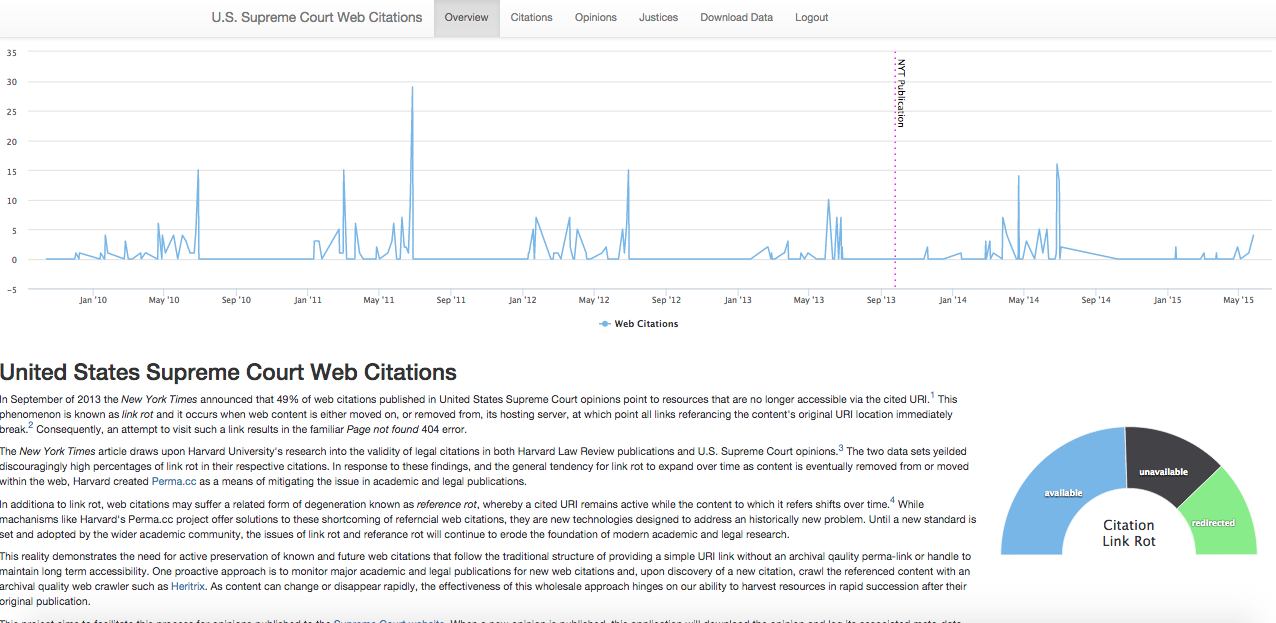
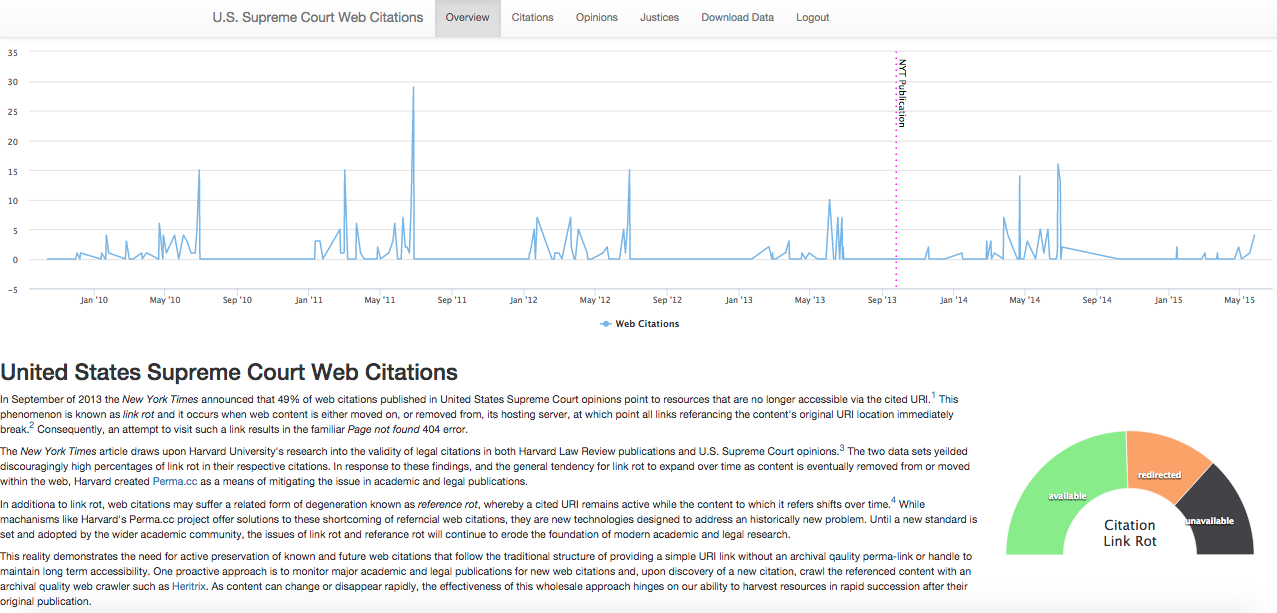
Removed the robustlink support for now because it did not fit in well with the look at feel of the citations page, and because the same functionality is already in place via others methods in the page.  Also, our memento approach is more informative, in my opinion, as it send to user off to the list

diff --git a/citations/templates/citations-robust.html b/citations/templates/citations-robust.html
@@ -1,0 +1,107 @@
+{% extends "base.html" %}
+
+{% block javascript %}
+<script src="/static/js/robustlinks.js"></script>
+{% endblock %}
+
+{% block css %}
+<link href="/static/css/robustlinks.css" media="all" rel="stylesheet">
+{% endblock %}
+
+{% block content %}
+    <table class="table table-striped">
+      <thead>
+        <tr>
+          <th>Verified</th>
+          <th>Citation</th>
+          <th>Opinion</th>
+          <!--provide memento links is JS disabled, blocking robustlinks-->
+          <noscript>
+            <th>Memento</th>
+          </noscript>
+        </tr>
+      </thead>
+      <tbody>
+        {% for citation in citations %}
+          <tr>
+            <td>
+              <a class='anchor' name='{{ citation.id }}'></a>
+              {% if citation.verify_date %} 
+                {% if citation.perma %}
+                  <a target="_blank" href="{{ citation.perma }}?type=source" title="view application capture">
+                    <span class="label label-info label-as-badge">
+                      {{ citation.verify_date|date:"Y.m.d" }}
+                    </span>
+                  </a>
+                {% else %}
+                  <span class="label label-default label-as-badge">
+                    {{ citation.verify_date|date:"Y.m.d" }}
+                  </span>
+                {% endif %}
+              {% else %}
+                <a class="btn btn-primary" href="/citations/verify/{{ citation.id  }}" title="verify citation" role="button">Verify</a>
+              {% endif %}
+            </td>
+
+            <td>
+              {% if citation.status == 'u' %}
+                <span class="label label-default label-as-badge" title="unavailable">{{ citation.status }}</span>
+                {% if citation.validated %}
+                  <a target="_blank" href="{{ citation.validated }}"
+                  data-versiondate="{{ citation.opinion.published|date:"Y-m-d" }}"
+                  {% if citation.perma %}data-versionurl="{{ citation.perma }}?type=source"{% endif %}>
+                      {{ citation.validated }}
+                  </a>   
+                {% else %}
+                  <a target="_blank" href="{{ citation.scraped }}"
+                  data-versiondate="{{ citation.opinion.published|date:"Y-m-d" }}"
+                  {% if citation.perma %}data-versionurl="{{ citation.perma }}?type=source"{% endif %}>
+                      {{ citation.scraped }}
+                  </a>   
+                {% endif %}
+                  <a target="_blank" data-versiondate="{{ citation.opinion.published|date:"Y-m-d" }}"
+                  {% if citation.perma %}data-versionurl="{{ citation.perma }}?type=source"{% endif %}>
+                      {{ citation.validated }}
+                  </a>   
+              {% else %}
+                {% if citation.status == 'r' %}
+                  <span class="label label-warning label-as-badge" title="redirect">{{ citation.status }}</span>
+                {% else %}
+                  <span class="label label-success label-as-badge" title="available">{{ citation.status }}</span>
+                {% endif %}
+                  {% if citation.validated %}
+                    <a target="_blank" href="{{ citation.validated }}" title="visit live citation page"
+                    data-versiondate="{{ citation.opinion.published|date:"Y-m-d" }}"
+                    {% if citation.perma %}data-versionurl="{{ citation.perma }}?type=source"{% endif %}>
+                      {{ citation.validated }}
+                    </a>
+                  {% else %}
+                    <a target="_blank" href="{{ citation.scraped }}" title="visit live citation page"
+                    data-versiondate="{{ citation.opinion.published|date:"Y-m-d" }}"
+                    {% if citation.perma %}data-versionurl="{{ citation.perma }}?type=source"{% endif %}>
+                      {{ citation.scraped }}
+                    </a>
+                  {% endif %}
+              {% endif %}
+            </td>
+
+            <td>
+              <a href="{{ citation.opinion.pdf_url  }}" target="_blank">{{ citation.opinion.name }}</a>
+            </td>
+
+            <!--provide memento links is JS disabled, blocking robustlinks-->
+            <noscript>
+              <td>
+                {% if citation.memento %}
+                  <a href="{{ citation.memento }}" target="_blank" title="view Memento captures">
+                    <img src="/static/img/memento-logo.png" id="memento-logo" />
+                  </a>
+                {% endif %}
+              </td>
+            </noscript>
+
+          </tr>
+        {% endfor %}
+      </tbody>
+    </table>
+{% endblock %}

diff --git a/citations/templates/citations.html b/citations/templates/citations.html
@@ -1,24 +1,14 @@
 {% extends "base.html" %}
 
-{% block javascript %}
-<script src="/static/js/robustlinks.js"></script>
-{% endblock %}
-
-{% block css %}
-<link href="/static/css/robustlinks.css" media="all" rel="stylesheet">
-{% endblock %}
-
 {% block content %}
     <table class="table table-striped">
       <thead>
         <tr>
           <th>Verified</th>
+          <th>Status</th>
           <th>Citation</th>
           <th>Opinion</th>
-          <!--provide memento links is JS disabled, blocking robustlinks-->
-          <noscript>
-            <th>Memento</th>
-          </noscript>
+          <th>Memento</th>
         </tr>
       </thead>
       <tbody>
@@ -28,7 +18,7 @@
               <a class='anchor' name='{{ citation.id }}'></a>
               {% if citation.verify_date %} 
                 {% if citation.perma %}
-                  <a target="_blank" href="{{ citation.perma }}?type=source" title="view application capture">
+                  <a target="_blank" href="{{ citation.perma }}" title="view application capture">
                     <span class="label label-info label-as-badge">
                       {{ citation.verify_date|date:"Y.m.d" }}
                     </span>
@@ -44,35 +34,42 @@
             </td>
 
             <td>
-              {% if citation.validated %}
-                <a target="_blank" class="{{ citation.status }}" href="{{ citation.validated }}" title="visit live citation page"
-                  data-versiondate="{{ citation.opinion.published|date:"Y-m-d" }}"
-                  {% if citation.perma %}data-versionurl="{{ citation.perma }}?type=source"{% endif %}>
+              <span class="label label-default label-as-badge status-{{ citation.status }}">
+                {{ citation.status }}
+              </span>
+            </td>
+
+            <td>
+              {% if citation.status == 'u' %}
+                {% if citation.validated %}
                   {{ citation.validated }}
-                </a>
-              {% else %}
-                <a target="_blank" class="{{ citation.status }}" href="{{ citation.scraped  }}"
-                   data-versiondate="{{ citation.opinion.published|date:"Y-m-d" }}"
-                   {% if citation.perma %}data-versionurl="{{ citation.perma }}?type=source"{% endif %}>
+                {% else %}
                   {{ citation.scraped }}
-                </a>
-              {% endif %}        
+                {% endif %}
+              {% else %}
+                {% if citation.validated %}
+                  <a target="_blank" href="{{ citation.validated }}" title="visit live citation page">
+                    {{ citation.validated }}
+                  </a>
+                {% else %}
+                  <a target="_blank" href="{{ citation.scraped }}" title="visit live citation page">
+                    {{ citation.scraped }}
+                  </a>
+                {% endif %}
+              {% endif %}
             </td>
 
             <td>
               <a href="{{ citation.opinion.pdf_url  }}" target="_blank">{{ citation.opinion.name }}</a>
             </td>
 
-            <!--provide memento links is JS disabled, blocking robustlinks-->
-            <noscript>
-              <td>
-                {% if citation.memento %}
-                  <a href="{{ citation.memento }}" target="_blank" title="view Memento captures">
-                    <img src="/static/img/memento-logo.png" id="memento-logo" />
-                  </a>
-                {% endif %}
-              </td>
-            </noscript>
+            <td>
+              {% if citation.memento %}
+                <a href="{{ citation.memento }}" target="_blank" title="view Memento captures">
+                  <img src="/static/img/memento-logo.png" id="memento-logo" />
+                </a>
+              {% endif %}
+            </td>
 
           </tr>
         {% endfor %}

diff --git a/templates/overview.html b/templates/overview.html
@@ -119,6 +119,15 @@
         });
 
         // Build Link Rot Chart
+        Highcharts.setOptions(
+            {
+                colors: [
+                    '#90ed7d',
+                    '#f7a35c',
+                    '#434348',
+                ]
+            }
+        );
         $('#rot_distribution').highcharts({
             title: {
                 text: 'Citation<br>Link Rot',
@@ -158,8 +167,8 @@
                 innerSize: '50%',
                 data: [
                   ['<a href="{{ base }}citations/available">available</a>', {{ available }}],
-                  ['<a href="{{ base }}citations/unavailable">unavailable</a>', {{ unavailable }}],
                   ['<a href="{{ base }}citations/redirected">redirected</a>', {{ redirected }}],
+                  ['<a href="{{ base }}citations/unavailable">unavailable</a>', {{ unavailable }}],
                 ],
             }],
 

diff --git a/static/js/robustlinks.js b/static/js/robustlinks.js
@@ -190,6 +190,7 @@ document.addEventListener('DOMContentLoaded', function() {
             //arrowDown.setAttribute('class', 'robustLinks dropDownButton RLArrow');
             //arrowDown.setAttribute('class', 'robustLinks dropDownButton glyphicon glyphicon-link');
             arrowDown.setAttribute('class', 'robustLinks dropDownButton glyphicon glyphicon-triangle-bottom');
+            arrowDown.setAttribute('title', 'robustlinks');
             arrowDown.setAttribute('aria-controls', popupID);
 
             // The link glyph

diff --git a/static/css/scotus.css b/static/css/scotus.css
@@ -54,18 +54,18 @@ td.centered {
   text-align: center;
 }
 
-a.r {
-  color: #90ED7D;
-}
-
-a.a {
-  color: #7CB5EC;
-}
-
-a.u {
-  color: #333;
-}
-
 .label-as-badge {
     border-radius: 1em;
+}
+
+.status-a {
+    background-color: #90ed7d;
+}
+
+.status-r {
+    background-color: #f7a35c;
+}
+
+.status-u {
+    background-color: #434348;
 }

diff --git a/citations/views.py b/citations/views.py
@@ -17,8 +17,6 @@ def index(request):
 
     context = {
         'citations': Citation.objects.all().order_by('-opinion__id'),
-        'WEBCITE': settings.WEBCITE,
-        'PERMA': settings.PERMA,
     }
 
     return render(request, template, context)
@@ -38,8 +36,6 @@ def justice_opinions_citations(request, justice_id):
 
         context = {
             'citations': citations,
-            'WEBCITE': settings.WEBCITE,
-            'PERMA': settings.PERMA,
         }
 
         return render(request, template, context)
@@ -53,8 +49,6 @@ def opinion_citations(request, opinion_id):
 
     context = {
         'citations':citations,
-        'WEBCITE': settings.WEBCITE,
-        'PERMA': settings.PERMA,
     }
 
     return render(request, template, context)
@@ -126,8 +120,6 @@ def get_citations_by_status(request, status):
     citations = Citation.objects.filter(status=status[0]).order_by('-opinion__id')
     context = {
         'citations':citations,
-        'WEBCITE': settings.WEBCITE,
-        'PERMA': settings.PERMA,
     }
 
     return render(request, template, context)

diff --git a/README.md b/README.md
@@ -69,7 +69,7 @@ Simply change ```False``` to ```True``` for the services that you want to enable
 ![](https://github.com/orangeoval/scotus/blob/master/static/img/screen_shots/overview_screen.png)
 
 #### Citations Screen
-![](https://github.com/orangeoval/scotus/blob/master/static/img/screen_shots/citation_screen.png)
+![](https://github.com/orangeoval/scotus/blob/master/static/img/screen_shots/citations_screen.png)
 
 #### Opinions Screen
 ![](https://github.com/orangeoval/scotus/blob/master/static/img/screen_shots/opinions_screen.png)
